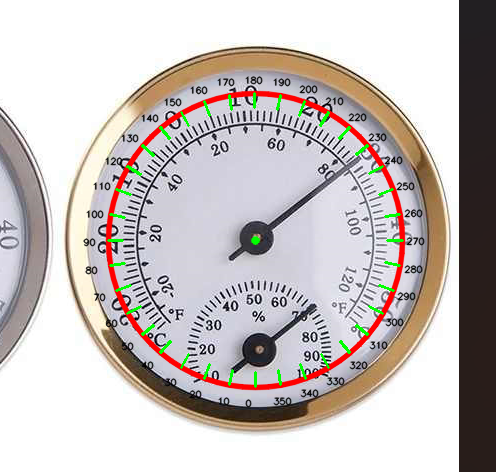
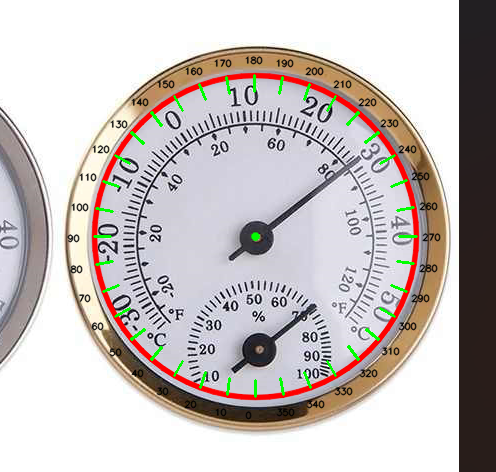
Update

diff --git a/detect.py b/detect.py
@@ -6,6 +6,7 @@
 
 import cv2 as cv
 import numpy as np
+import filter
 
 def determine_avg_circles(circles, b):
     avg_x=0
@@ -28,15 +29,13 @@ def calibrate_gauge(path):
     clock = cv.imread(path)
     height, width = clock.shape[:2]
 
-    gray = cv.cvtColor(clock, cv.COLOR_BGR2GRAY)
-    img = cv.medianBlur(gray, 11)
-    kernel_sharpening = np.array([[-1,-1,-1], 
-                              [-1, 9,-1],
-                              [-1,-1,-1]])
-    img = cv.filter2D(img, -1, kernel_sharpening)
+    img = filter.implement_filter(clock)
+    cv.imshow('img', img)
+    cv.waitKey(0)
+    cv.destroyAllWindows()
     
     try:
-        circles = cv.HoughCircles(img,cv.HOUGH_GRADIENT, 1, 20, param1=100, param2=35, minRadius=int(height*0.25), maxRadius=int(height*0.5))
+        circles = cv.HoughCircles(img,cv.HOUGH_GRADIENT, 1, 20, param1=100, param2=50, minRadius=int(height*0.3), maxRadius=int(height*0.5))
     except:
         return
     
@@ -87,16 +86,8 @@ def calibrate_gauge(path):
 
 def get_current_value(path, min_angle, max_angle, min_value, max_value, x, y, r):
     img = cv.imread(path)
-#     height, width = img.shape[:2]
-#     height, width = int(np.around(height*1.5)), int(np.around(width*1.5))
 
-#     img = cv.resize(img, (height, width))
-    gray2 = cv.cvtColor(img, cv.COLOR_BGR2GRAY)
-    
-    thresh = 100
-    maxValue = 255
-    
-    _, dst2 = cv.threshold(gray2, thresh, maxValue, cv.THRESH_BINARY_INV)
+    dst2 = filter.implement_filter(img)
     
     try:
         lines = cv.HoughLinesP(image=dst2, rho=3, theta=np.pi / 180, threshold=100, minLineLength=10, maxLineGap=0)
@@ -159,6 +150,6 @@ def get_current_value(path, min_angle, max_angle, min_value, max_value, x, y, r)
     return np.array(res).mean(), img
 
 if __name__ == '__main__':
-    x, y, r = calibrate_gauge('static/test3.png')
+    x, y, r = calibrate_gauge('../clock2.png')
 
 

diff --git a/filter.py b/filter.py
@@ -1,0 +1,22 @@
+import cv2
+import numpy as np
+
+def implement_filter(image):
+    image = cv2.cvtColor(image, cv2.COLOR_BGR2GRAY)
+    kernel = np.array([[0, 1, 0],
+                       [1, -4, 1],
+                       [0, 1, 0]])
+
+    image = cv2.GaussianBlur(image, (5, 5), 0)
+    laplacian = cv2.filter2D(image, -1, kernel)
+    _, laplacian = cv2.threshold(laplacian, 7, 255, cv2.THRESH_BINARY)
+
+    return laplacian
+
+# if __name__ == '__main__':
+#     image = cv2.imread('test_image/test3.png')
+#     image = implement_filter(image)
+#
+#     cv2.imshow('image', image)
+#     cv2.waitKey(0)
+#     cv2.destroyAllWindows()
